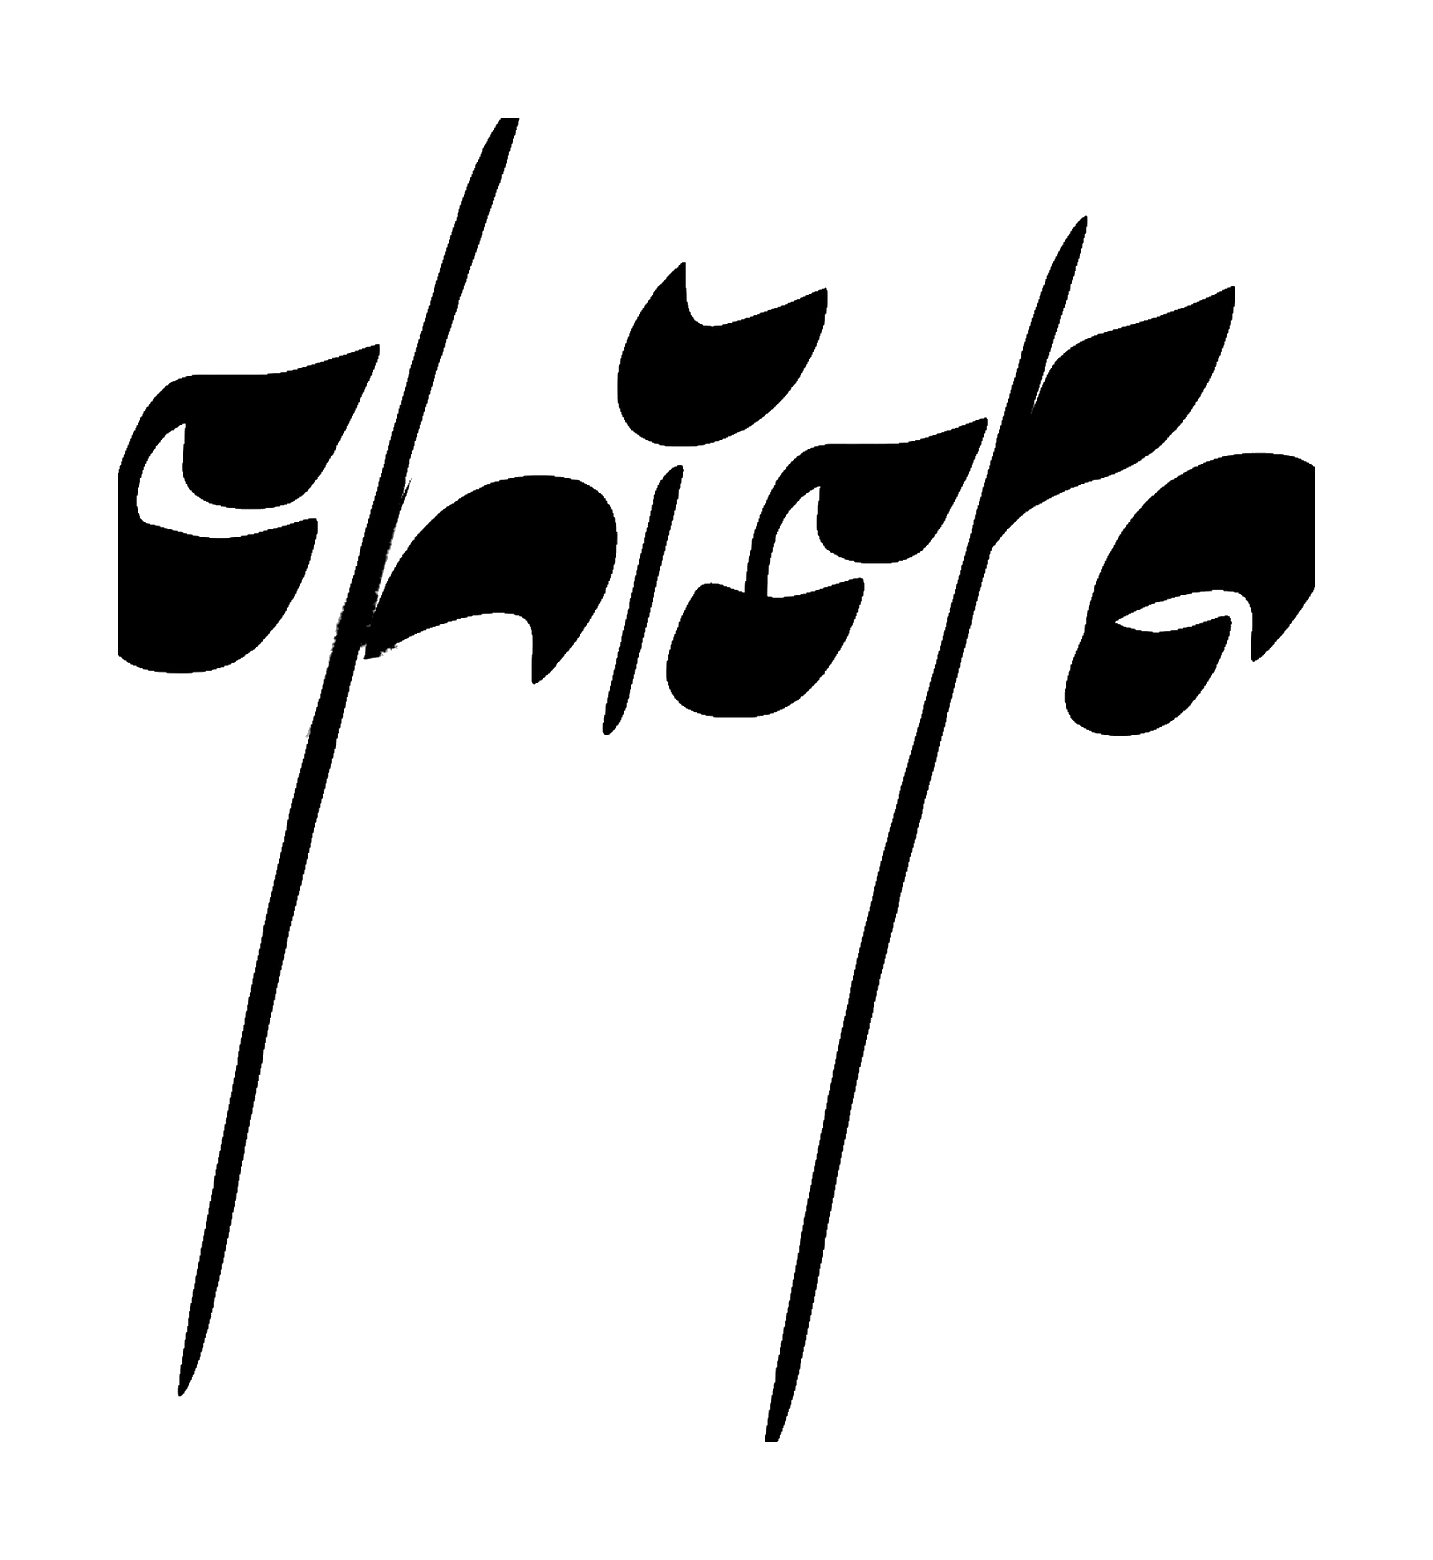
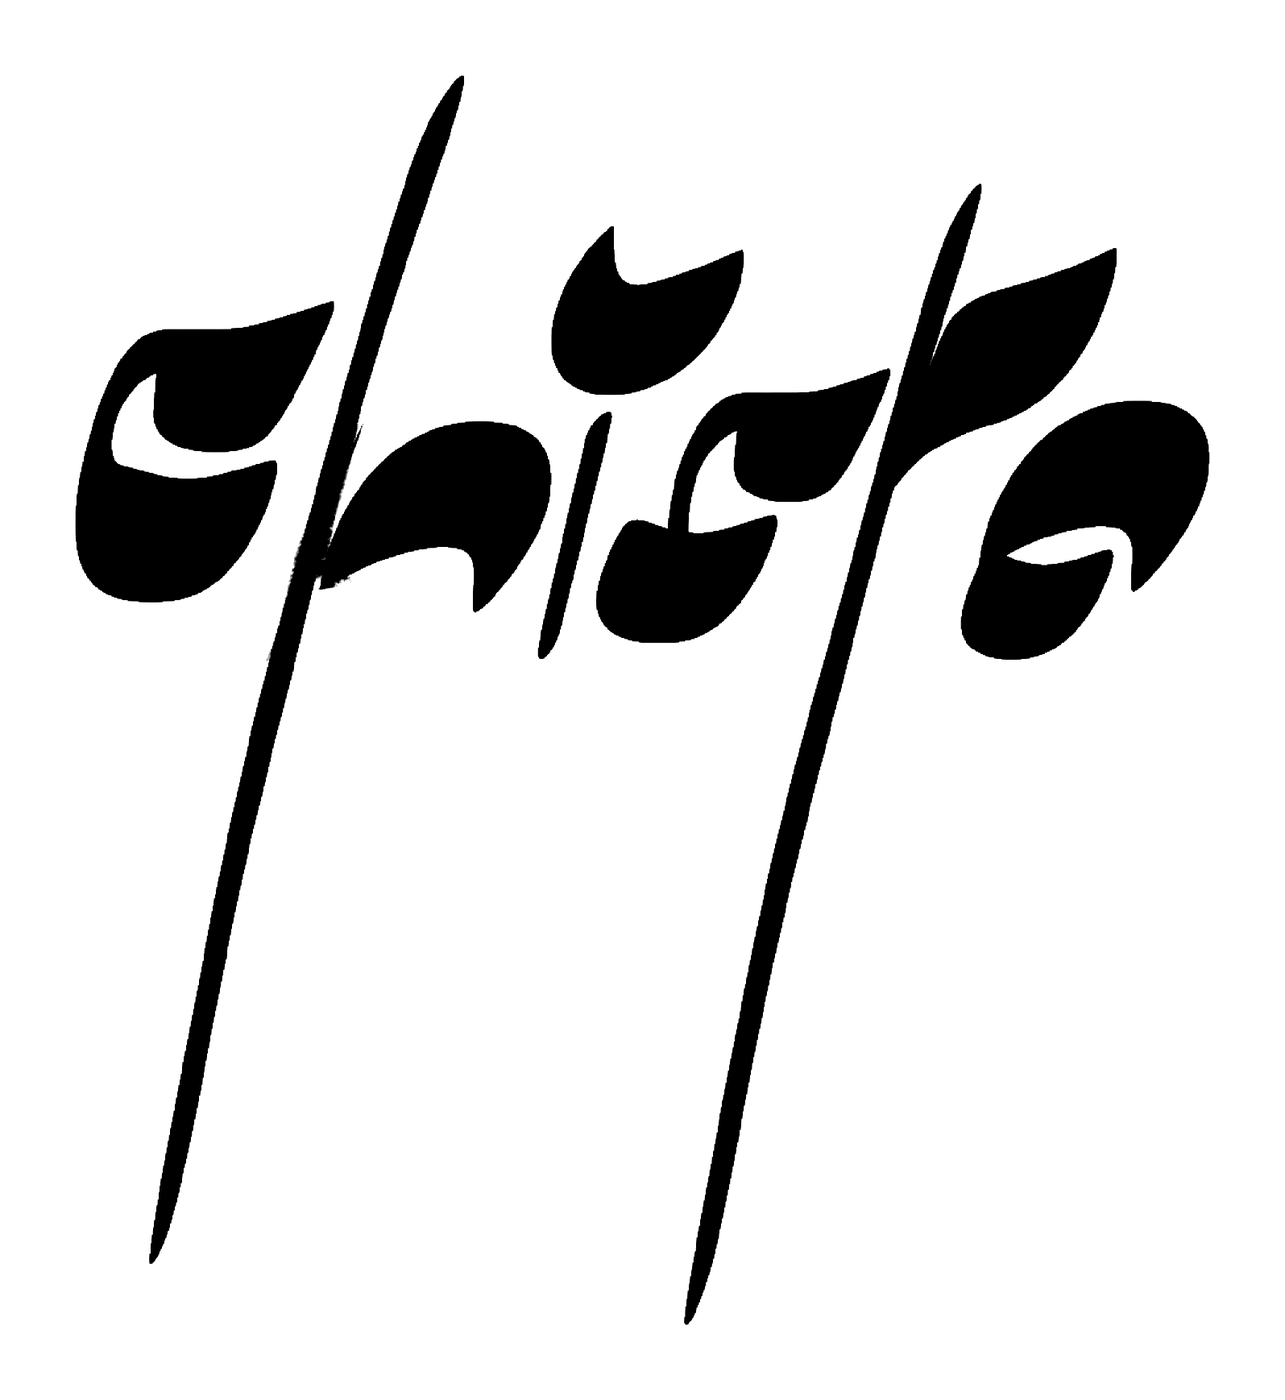
Simple intro: full signature fades in with flowing works, small seal, recedes
Claude-Session: https://claude.ai/code/session_01FXQnaukBiKpXP8u92Xo4dq

diff --git a/index.html b/index.html
@@ -42,7 +42,7 @@ body.dark .sigimg{filter:invert(1)}
 /* intro */
 #intro{position:fixed;inset:0;z-index:90;background:var(--paper);display:flex;flex-direction:column;align-items:center;justify-content:center;gap:18px;transition:transform 1.2s var(--ease)}
 #intro.up{transform:translateY(-100%)}
-#intro .sigbox{position:relative;height:100%;aspect-ratio:1433/1560;overflow:hidden;-webkit-mask-image:url(sig.png);mask-image:url(sig.png);-webkit-mask-repeat:no-repeat;mask-repeat:no-repeat;-webkit-mask-position:center;mask-position:center;-webkit-mask-size:100% 100%;mask-size:100% 100%}
+#intro .sigbox{position:relative;height:100%;aspect-ratio:1285/1400;overflow:hidden;-webkit-mask-image:url(sig.png);mask-image:url(sig.png);-webkit-mask-repeat:no-repeat;mask-repeat:no-repeat;-webkit-mask-position:center;mask-position:center;-webkit-mask-size:100% 100%;mask-size:100% 100%}
 @keyframes write{to{clip-path:inset(-2% -20% -2% 0)}}
 #intro .ink{position:absolute;inset:-12%;filter:url(#liquid) saturate(1.25)}
 #intro .ink img{position:absolute;inset:0;width:100%;height:100%;object-fit:cover;opacity:0}
@@ -55,25 +55,16 @@ body.dark .sigimg{filter:invert(1)}
 @keyframes flowA{from{transform:scale(1.1) rotate(-6deg) translate(-6%,4%)}to{transform:scale(1.35) rotate(8deg) translate(7%,-5%)}}
 @keyframes flowB{from{transform:scale(1.3) rotate(10deg) translate(5%,6%)}to{transform:scale(1.05) rotate(-4deg) translate(-8%,-3%)}}
 @keyframes flowC{from{transform:scale(1.15) rotate(0) translate(0,-7%)}to{transform:scale(1.4) rotate(14deg) translate(-4%,8%)}}
-#intro .sigwrap{height:min(54vh,80vw);aspect-ratio:1433/1560;perspective:1400px;transform-style:preserve-3d}
-#intro canvas#ori{position:absolute;left:-40%;top:-40%;width:180%;height:180%;pointer-events:none;transition:opacity 1s ease}
-#intro canvas#ori.gone{opacity:0}
-#intro .sigbox{opacity:0;transition:opacity 1.2s ease}
-#intro .sigbox.on{opacity:1}
-#intro .crease{position:absolute;inset:0;width:100%;height:100%;opacity:0;transition:opacity 1.2s ease;-webkit-mask-image:url(sig.png);mask-image:url(sig.png);-webkit-mask-size:100% 100%;mask-size:100% 100%;pointer-events:none}
-#intro .crease.on{opacity:1}
+#intro .sigwrap{height:min(54vh,80vw);aspect-ratio:1285/1400;opacity:0;filter:blur(10px);transform:scale(.96);animation:sigIn 1.6s cubic-bezier(.22,1,.36,1) .25s forwards}
+@keyframes sigIn{to{opacity:1;filter:blur(0);transform:none}}
+#intro.out .sigwrap{animation:none;opacity:0!important;filter:blur(6px);transform:scale(.88);transition:opacity 1.1s ease,transform 1.2s cubic-bezier(.22,1,.36,1),filter 1.1s ease}
 #intro.fade{opacity:0;transition:opacity 1.4s ease}
 #intro .sigwrap{position:relative;transition:transform 1.2s var(--ease),opacity 1.2s ease}
-#intro .drop{position:absolute;left:50%;top:-60px;width:34px;height:34px;margin-left:-17px;border-radius:50% 50% 50% 50%/60% 60% 40% 40%;background-size:cover;background-position:center;box-shadow:inset -4px -6px 10px rgba(0,0,0,.25);animation:fall .85s cubic-bezier(.55,0,1,.45) .25s forwards;z-index:3}
-@keyframes fall{0%{transform:translateY(0) scale(.7,1)}80%{transform:translateY(calc(50vh + 40px)) scale(.75,1.35)}100%{transform:translateY(calc(50vh + 52px)) scale(1.6,.35);opacity:0}}
-#intro svg.bl{position:absolute;inset:0;width:100%;height:100%;transition:opacity 1.6s ease}
-#intro #pig circle{mix-blend-mode:multiply}
-#intro svg.bl.gone{opacity:0}
 #intro.out{background:transparent;transition:background .9s ease .3s}
 #intro.out p,#intro.out .seal2{opacity:0!important;transition:opacity .4s}
-#intro .seal2{position:absolute;width:12%;right:4%;top:60%;opacity:0;animation:stamp .6s var(--out) 3.7s forwards}
+#intro .seal2{position:absolute;width:8%;right:-2%;bottom:6%;top:auto;opacity:0;animation:stamp .6s var(--out) 2.2s forwards}
 @keyframes stamp{from{opacity:0;transform:scale(1.6) rotate(-8deg)}to{opacity:1;transform:none}}
-#intro p{position:absolute;bottom:28px;margin:0;font-size:12px;letter-spacing:.3em;text-transform:uppercase;color:var(--mute);opacity:0;animation:fadein 1s ease 3.8s forwards}
+#intro p{position:absolute;bottom:28px;margin:0;font-size:12px;letter-spacing:.3em;text-transform:uppercase;color:var(--mute);opacity:0;animation:fadein 1s ease 2.6s forwards}
 @keyframes fadein{to{opacity:1}}
 /* reveal helpers */
 .mask{display:block;overflow:hidden}
@@ -246,7 +237,7 @@ footer .lk{display:flex;gap:26px;flex-wrap:wrap}
 <nav><a href="#" data-r="show">Works</a><a href="#index" data-r="index">Index</a><a href="#index/about" data-r="about">About</a><a class="mint" href="#p/bonjoy">Mint</a></nav></header>
 <button class="close" id="close" aria-label="Back to works">×</button>
 <svg width="0" height="0" style="position:absolute"><filter id="wcf" x="-20%" y="-20%" width="140%" height="140%"><feTurbulence type="fractalNoise" baseFrequency="0.009" numOctaves="3" seed="3" result="t"/><feDisplacementMap in="SourceGraphic" in2="t" scale="90" xChannelSelector="R" yChannelSelector="G" result="d"/><feGaussianBlur in="d" stdDeviation="1.2"/></filter><filter id="liquid" x="-10%" y="-10%" width="120%" height="120%"><feTurbulence type="fractalNoise" baseFrequency="0.006 0.009" numOctaves="2" seed="7" result="n"><animate attributeName="baseFrequency" dur="14s" values="0.006 0.009;0.011 0.006;0.006 0.009" repeatCount="indefinite"/></feTurbulence><feDisplacementMap in="SourceGraphic" in2="n" scale="70" xChannelSelector="R" yChannelSelector="G"/></filter></svg>
-<div id="intro" hidden><div class="sigwrap" id="sw"><canvas id="ori"></canvas><div class="sigbox"><div class="ink" id="ink"></div></div><svg class="crease" id="crease" viewBox="0 0 100 100" preserveAspectRatio="none"></svg><img class="seal2" src="seal.png" alt=""></div><p>Generative paintings · tap to enter</p></div>
+<div id="intro" hidden><div class="sigwrap" id="sw"><div class="sigbox"><div class="ink" id="ink"></div></div><img class="seal2" src="seal.png" alt=""></div><p>Generative paintings · tap to enter</p></div>
 <main>
 <section id="show" aria-label="Works"><div class="bg" id="bg"></div></section>
 <div class="ctl" id="ctl"><button class="arw" id="prev" aria-label="Previous work">↑</button><button class="arw" id="next" aria-label="Next work">↓</button><span id="cnt">01 / 18</span><div class="bar"><i id="bar"></i></div><button id="pause">Pause</button></div>
@@ -433,76 +424,10 @@ function intro() {
   const pool = VIVID.slice();
   for (let k = pool.length - 1; k > 0; k--) { const j = Math.floor(Math.random() * (k + 1)); [pool[k], pool[j]] = [pool[j], pool[k]]; }
   $('#ink').innerHTML = pool.slice(0, 4).map(x => `<img src="${x}" alt="">`).join('');
-  const ASP = 1433 / 1560, FOLDS = [[.15, .1, 78, 172], [-.22, -.05, 160, -168], [.1, -.32, 22, 164], [-.36, .3, 116, -172], [.32, .45, 205, 160], [-.05, .62, 12, -150]];
-  const cr = $('#crease');
-  cr.innerHTML = FOLDS.map(([cx, cy, ang]) => { const d = [Math.cos(ang * Math.PI / 180), Math.sin(ang * Math.PI / 180)], X = v => (v / ASP + 1) * 50, Y = v => (1 - v) * 50;
-    const a = [cx - d[0] * 3, cy - d[1] * 3], b = [cx + d[0] * 3, cy + d[1] * 3];
-    return `<line x1="${X(a[0] * ASP)}" y1="${Y(a[1])}" x2="${X(b[0] * ASP)}" y2="${Y(b[1])}" stroke="rgba(255,250,240,.85)" vector-effect="non-scaling-stroke" style="stroke-width:2px"/><line x1="${X(a[0] * ASP) + .4}" y1="${Y(a[1]) + .4}" x2="${X(b[0] * ASP) + .4}" y2="${Y(b[1]) + .4}" stroke="rgba(40,25,15,.4)" vector-effect="non-scaling-stroke" style="stroke-width:1.2px"/>`; }).join('');
-  (function origami() {
-    const cv = $('#ori'), gl = cv.getContext('webgl2', { premultipliedAlpha: true, antialias: true, alpha: true });
-    if (!gl) return;
-    const r = cv.getBoundingClientRect(), dpr = Math.min(2, devicePixelRatio || 1); cv.width = r.width * dpr; cv.height = r.height * dpr;
-    const sh = (t, src) => { const o = gl.createShader(t); gl.shaderSource(o, src); gl.compileShader(o); return o; };
-    const pr = gl.createProgram();
-    gl.attachShader(pr, sh(gl.VERTEX_SHADER, `#version 300 es
-in vec3 p;in vec2 uv;out vec2 vuv;out vec3 vp;uniform float A,S;void main(){vuv=uv;vp=p;float k=3.4/(3.4-p.z);gl_Position=vec4(p.x*k*S/(A*1.8),p.y*k*S/1.8,0.,1.);}`));
-    gl.attachShader(pr, sh(gl.FRAGMENT_SHADER, `#version 300 es
-precision highp float;in vec2 vuv;in vec3 vp;out vec4 o;uniform sampler2D T;void main(){vec4 c=texture(T,vuv);if(c.a<.02)discard;vec3 n=normalize(cross(dFdx(vp),dFdy(vp)));if(n.z<0.)n=-n;vec3 L=normalize(vec3(-.5,.6,.9));float d=max(dot(n,L),0.),sp=pow(max(dot(reflect(-L,n),vec3(0,0,1)),0.),24.);float sh=.42+.62*d;vec3 col=c.rgb*sh+sp*.18*c.a;if(!gl_FrontFacing)col*=.82;o=vec4(col,c.a);}`));
-    gl.linkProgram(pr); gl.useProgram(pr);
-    const NX = 64, NY = 70, verts = [], uvs = [], idx = [];
-    for (let j = 0; j <= NY; j++) for (let i = 0; i <= NX; i++) { const u = i / NX, v = j / NY; verts.push([(u * 2 - 1) * ASP, 1 - v * 2]); uvs.push(u, v); }
-    for (let j = 0; j < NY; j++) for (let i = 0; i < NX; i++) { const a = j * (NX + 1) + i, b = a + 1, c = a + NX + 1, d = c + 1; if ((i + j) % 2) idx.push(a, b, d, a, d, c); else idx.push(a, b, c, b, d, c); }
-    const pb = gl.createBuffer(), ub = gl.createBuffer(), ib = gl.createBuffer(), pos = new Float32Array(verts.length * 3);
-    gl.bindBuffer(gl.ARRAY_BUFFER, ub); gl.bufferData(gl.ARRAY_BUFFER, new Float32Array(uvs), gl.STATIC_DRAW);
-    const lu = gl.getAttribLocation(pr, 'uv'); gl.enableVertexAttribArray(lu); gl.vertexAttribPointer(lu, 2, gl.FLOAT, false, 0, 0);
-    gl.bindBuffer(gl.ELEMENT_ARRAY_BUFFER, ib); gl.bufferData(gl.ELEMENT_ARRAY_BUFFER, new Uint16Array(idx), gl.STATIC_DRAW);
-    const lp = gl.getAttribLocation(pr, 'p'); gl.bindBuffer(gl.ARRAY_BUFFER, pb); gl.enableVertexAttribArray(lp); gl.vertexAttribPointer(lp, 3, gl.FLOAT, false, 0, 0);
-    gl.uniform1f(gl.getUniformLocation(pr, 'A'), ASP * r.height / r.width * (1 / ASP) * ASP / ASP);
-    gl.uniform1f(gl.getUniformLocation(pr, 'A'), r.width / r.height);
-    const uS = gl.getUniformLocation(pr, 'S');
-    const tex = gl.createTexture();
-    const im = new Image(), sg = new Image(); let n = 0;
-    const ready = () => { if (++n < 2) return;
-      const c = document.createElement('canvas'); c.width = 1024; c.height = Math.round(1024 / ASP); const x = c.getContext('2d');
-      const k = Math.max(c.width / im.width, c.height / im.height); x.drawImage(im, (c.width - im.width * k) / 2, (c.height - im.height * k) / 2, im.width * k, im.height * k);
-      x.globalCompositeOperation = 'destination-in'; x.drawImage(sg, 0, 0, c.width, c.height);
-      gl.bindTexture(gl.TEXTURE_2D, tex); gl.pixelStorei(gl.UNPACK_PREMULTIPLY_ALPHA_WEBGL, true); gl.texImage2D(gl.TEXTURE_2D, 0, gl.RGBA, gl.RGBA, gl.UNSIGNED_BYTE, c);
-      gl.texParameteri(gl.TEXTURE_2D, gl.TEXTURE_MIN_FILTER, gl.LINEAR); gl.texParameteri(gl.TEXTURE_2D, gl.TEXTURE_WRAP_S, gl.CLAMP_TO_EDGE); gl.texParameteri(gl.TEXTURE_2D, gl.TEXTURE_WRAP_T, gl.CLAMP_TO_EDGE);
-      start(); };
-    im.onload = sg.onload = ready; im.src = pool[3] || pool[0]; sg.src = 'sig.png';
-    const F = FOLDS.map(([cx, cy, ang, deg]) => { const a = ang * Math.PI / 180; return { c: [cx * ASP, cy], d: [Math.cos(a), Math.sin(a)], th: deg * Math.PI / 180 }; });
-    const rot = (p, c, d, th) => { const v = [p[0] - c[0], p[1] - c[1], p[2] - c[2]], cs = Math.cos(th), sn = Math.sin(th), dt = v[0] * d[0] + v[1] * d[1] + v[2] * d[2];
-      const cx = [d[1] * v[2] - d[2] * v[1], d[2] * v[0] - d[0] * v[2], d[0] * v[1] - d[1] * v[0]];
-      return [c[0] + v[0] * cs + cx[0] * sn + d[0] * dt * (1 - cs), c[1] + v[1] * cs + cx[1] * sn + d[1] * dt * (1 - cs), c[2] + v[2] * cs + cx[2] * sn + d[2] * dt * (1 - cs)]; };
-    const sm = t => t < 0 ? 0 : t > 1 ? 1 : t * t * (3 - 2 * t);
-    function frame(T) {
-      const K = F.length, th = F.map((f, k) => f.th * (1 - sm((T * 2.6 - (K - 1 - k) * .36) / .8)));
-      const axes = []; for (let k = 0; k < K; k++) { let a = [F[k].c[0], F[k].c[1], 0], b = [F[k].c[0] + F[k].d[0], F[k].c[1] + F[k].d[1], 0];
-        for (let q = 0; q < k; q++) { const sa = (F[q].d[0] * (F[k].c[1] - F[q].c[1]) - F[q].d[1] * (F[k].c[0] - F[q].c[0])) > 0; const sb = (F[q].d[0] * (b[1] - F[q].c[1]) - F[q].d[1] * (b[0] - F[q].c[0])) > 0;
-          if (sa) a = rot(a, axes[q].c, axes[q].d, th[q]); if (sb) b = rot(b, axes[q].c, axes[q].d, th[q]); }
-        const d = [b[0] - a[0], b[1] - a[1], b[2] - a[2]], L = Math.hypot(...d) || 1; axes.push({ c: a, d: [d[0] / L, d[1] / L, d[2] / L] }); }
-      const wr = (1 - sm(T * 1.2)) * .05;
-      for (let i = 0; i < verts.length; i++) { const v0 = verts[i]; let p = [v0[0], v0[1], wr * Math.sin(v0[0] * 17 + v0[1] * 11) * Math.cos(v0[1] * 13 - v0[0] * 7)];
-        for (let k = 0; k < K; k++) if ((F[k].d[0] * (v0[1] - F[k].c[1]) - F[k].d[1] * (v0[0] - F[k].c[0])) > 0) p = rot(p, axes[k].c, axes[k].d, th[k]);
-        pos[i * 3] = p[0]; pos[i * 3 + 1] = p[1]; pos[i * 3 + 2] = p[2] * .9; }
-      let mx = 0, my = 0, mz = 0; const N = verts.length; for (let i = 0; i < N; i++) { mx += pos[i * 3]; my += pos[i * 3 + 1]; mz += pos[i * 3 + 2]; } mx /= N; my /= N; mz /= N;
-      for (let i = 0; i < N; i++) { pos[i * 3] -= mx; pos[i * 3 + 1] -= my; pos[i * 3 + 2] -= mz; }
-      gl.bindBuffer(gl.ARRAY_BUFFER, pb); gl.bufferData(gl.ARRAY_BUFFER, pos, gl.DYNAMIC_DRAW);
-      gl.uniform1f(uS, .55 + .45 * sm(T * 1.1));
-      gl.viewport(0, 0, cv.width, cv.height); gl.clearColor(0, 0, 0, 0); gl.clear(gl.COLOR_BUFFER_BIT); gl.enable(gl.BLEND); gl.blendFunc(gl.ONE, gl.ONE_MINUS_SRC_ALPHA);
-      gl.drawElements(gl.TRIANGLES, idx.length, gl.UNSIGNED_SHORT, 0); }
-    function start() { const t0 = performance.now(), D = 2400; frame(0); const f = now => { const T = Math.min(1, (now - t0) / D); frame(T); if (T < 1 && introOn) requestAnimationFrame(f); }; setTimeout(() => requestAnimationFrame(f), 200); }
-  })();
-  setTimeout(() => { cr.classList.add('on'); el.querySelector('.sigbox').classList.add('on'); }, 2700);
-  setTimeout(() => $('#ori').classList.add('gone'), 3000);
   const leave = () => { if (!introOn) return; introOn = false; try { sessionStorage.setItem('ci', '1'); } catch (e) {}
-    const sw = el.querySelector('.sigwrap'), tgt = document.querySelector('.sigimg');
     el.classList.add('out'); el.style.pointerEvents = 'none';
-    if (tgt && tgt.offsetWidth) { const a = sw.getBoundingClientRect(), b = tgt.getBoundingClientRect();
-      sw.style.transformOrigin = '0 0'; sw.style.transform = `translate(${b.left - a.left}px,${b.top - a.top}px) scale(${b.height / a.height}) rotate(-4deg)`; sw.style.opacity = '0'; }
-    else sw.style.opacity = '0';
     setTimeout(() => el.remove(), 1400); runBar(); };
-  el.onclick = leave; setTimeout(leave, 7000);
+  el.onclick = leave; setTimeout(leave, 5600);
 }
 document.querySelector('.logo').addEventListener('click', e => { e.preventDefault();
   if (location.hash.slice(1)) location.hash = ''; else { window.scrollTo({ top: 0, behavior: 'smooth' }); if (mode !== 'show') route(); else { paused = false; goSlide(0); } } });
